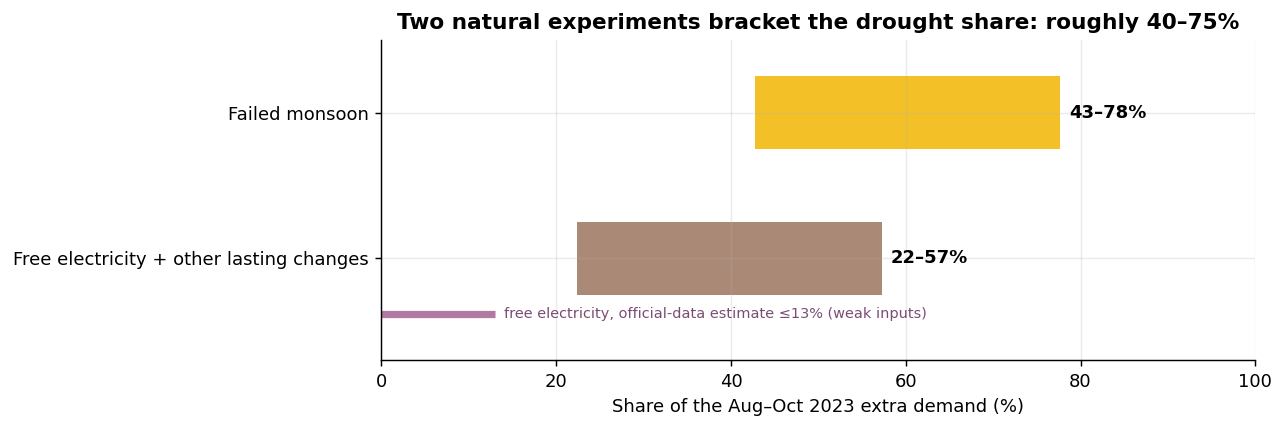
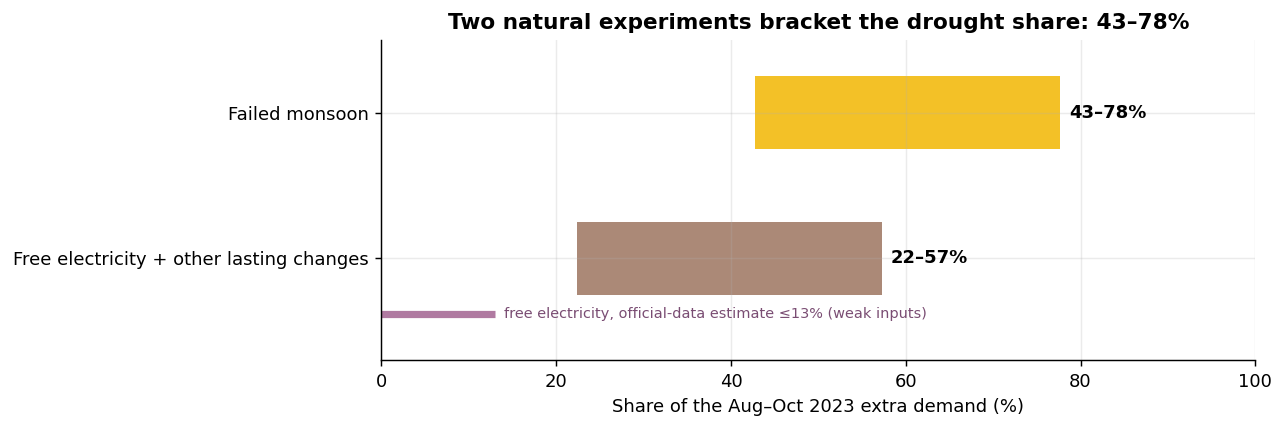
Use 43-78% consistently and clarify Model A/B wording

Changed region(s): [[0.3113, 0.0303, 0.965, 0.0909]]

diff --git a/README.md b/README.md
@@ -7,7 +7,7 @@ In August 2023, Karnataka's electricity demand jumped by ~50% compared with Augu
 
 ## The answer
 
-**The failed monsoon was the largest identifiable driver — roughly 40–75% of the surge.** The rest came from a
+**The failed monsoon was the largest identifiable driver — 43–78% of the surge.** The rest came from a
 lasting increase that began in August 2023 (free electricity plus other growth), which the data cannot cleanly split.
 
 Of the ~1,860 MW of extra demand in Aug–Oct 2023 (demand above what calendar, heat and normal growth predict,
@@ -22,8 +22,8 @@ Two natural experiments bracket the answer: **2016** (drought, no scheme; Aug–
 almost the same as 2023's −45%) shows a drought alone can explain up to ~78%; **2024** (scheme, normal rain) was still
 +12.3% above expected, so the drought share could be as low as ~43%.
 
-> **Which baseline?** "+50%" = vs the same months of 2022. "+21.5%" and "1,860 MW" = vs Model A (expected demand
-> without rain). "+15.6%" = vs Model B (expected demand with rain). See the report.
+> **Which baseline?** "+50%" = vs the same months of 2022. "+21.5%" and "1,860 MW" = vs Model A (a model that ignores
+> rainfall). "+15.6%" = vs Model B (a model that includes rainfall). See the report.
 
 ![2016 vs 2023](reports/figures/07_2016_vs_2023.png)
 
@@ -67,7 +67,7 @@ history cannot prove this order; the plan's change log records every later revis
 ## Repo structure
 
 ```
-00_analysis_plan.md   hypotheses & tests, written before the analysis (with change log)
+00_analysis_plan.md   hypotheses & tests, written before the models were built (with change log)
 notebooks/            01–02 Validate · 03–04 Describe · 05–07 Evaluate
 src/                  data.py · clean.py · features.py · model.py · plots.py · config.py
 reports/              final_report.md · validation_log.csv · figures/

diff --git a/reports/final_report.md b/reports/final_report.md
@@ -5,7 +5,7 @@
 
 ## ▲ The answer
 
-**The failed monsoon was the largest identifiable driver of the 2023 surge — roughly 40–75% of it. The rest came
+**The failed monsoon was the largest identifiable driver of the 2023 surge — 43–78% of it. The rest came
 from a lasting increase that began in August 2023 (free electricity plus other growth), which the data cannot
 cleanly split.**
 
